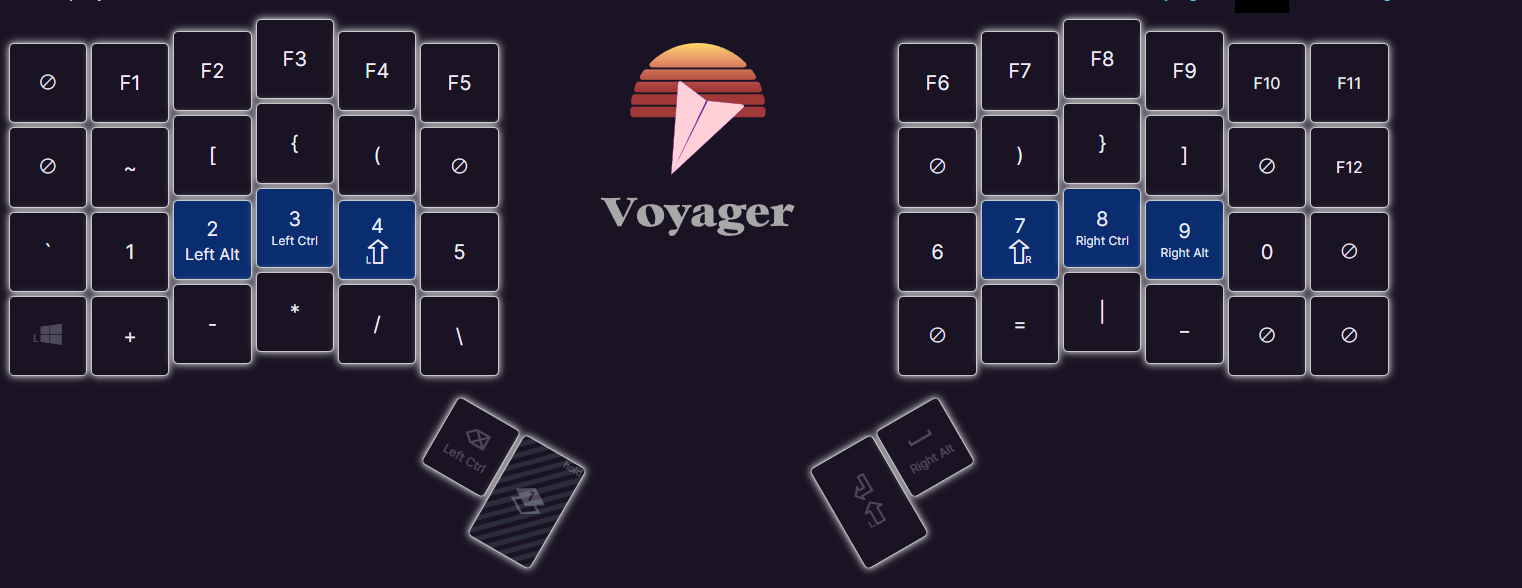
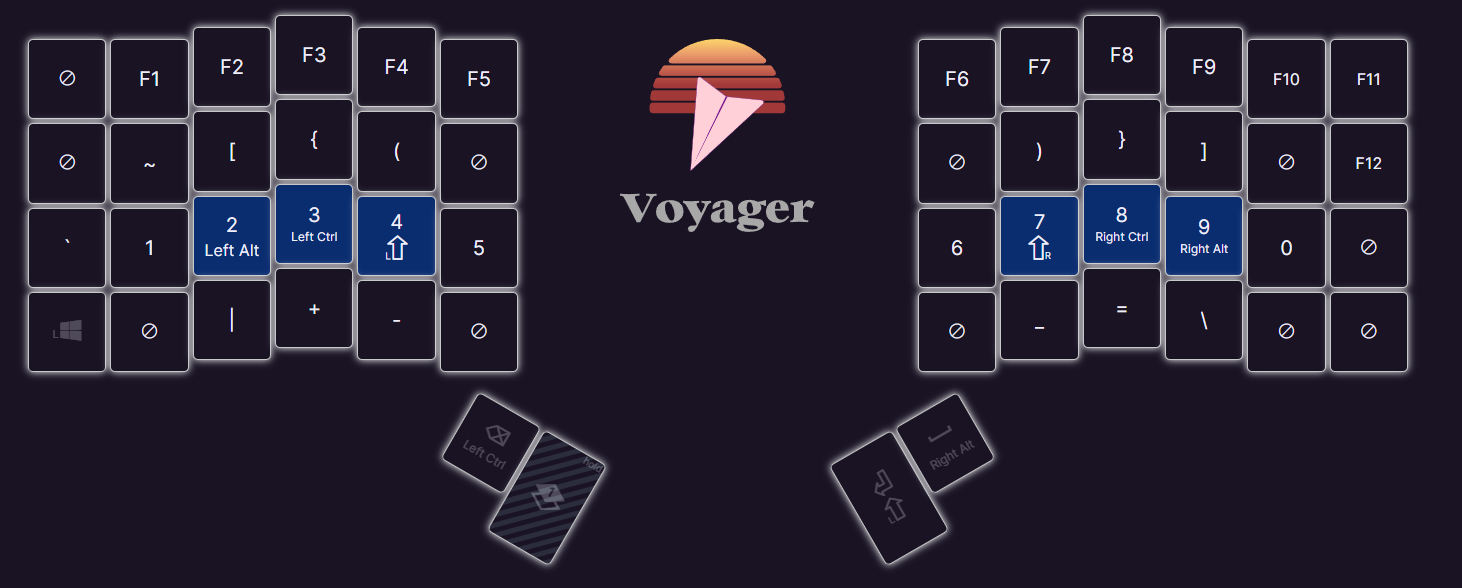
Update layout

diff --git a/README.md b/README.md
@@ -14,11 +14,18 @@ This layer contains all the expected stuff in QWERTY layout. There are some smal
 
 ## 1. Numbers / Symbols Layer
 
-All numbers / symbols live here. Symbols such as ! and @ are typed using shifted numbers.
+All numbers / symbols live here. Symbols such as ! and @ are typed using shifted numbers. This keeps you on the home row and re-uses muscle memory from traditional keyboards. Some other details are:
+
+- Symbols on the bottom row use the same finger for shifted / unshifted version of key on traditional keyboard: `-_` `+=` `|\`
+- ` key uses same pinky movement as " and '.
+- Bracket types all open and close with the same finger. 
+
 
 ![Layer 2](./layer2.PNG)
 
 ## 2. Navigation / Media Controls Layer
+ 
+Arrow keys are placed in the same position as Vim motions movement. Home/End and PageUp/PageDown have also been placed to match the arrow key placement for less mental overhead.
 
 ![Layer 3](./layer3.PNG)
 
